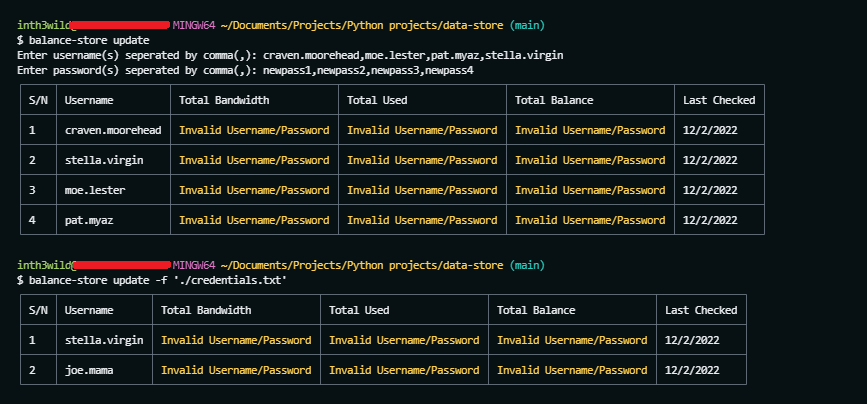
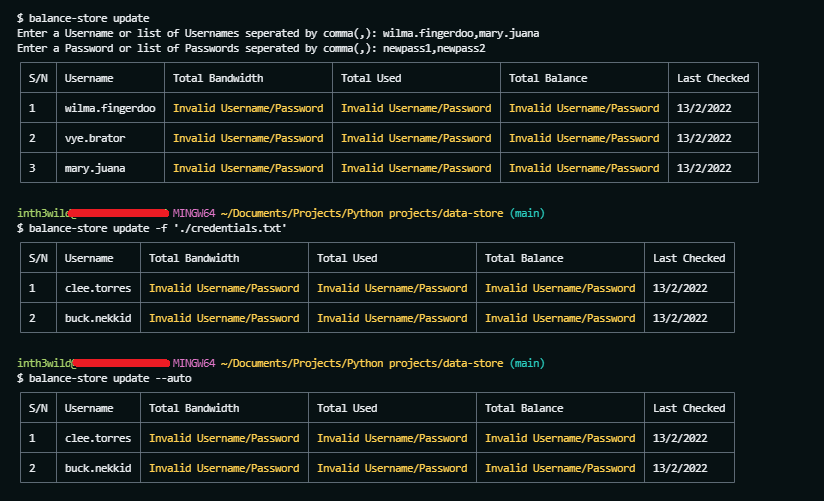
Added remove and auto update features

diff --git a/commands/update.js b/commands/update.js
@@ -7,6 +7,7 @@ const options = require('../index');
 const fs = require('fs');
 const readline = require('readline');
 const path = require('path')
+const {readfromDB} = require('../database/db');
 
 
 
@@ -47,12 +48,22 @@ function update(options) {
                 sendRequest(encryptedData, arr[0], {index: index + 1, length: allLinesArr.length}, displayTable);
             });
         })
-
-
+        
+        
     } 
+    else if(options.auto){
+        let dbData = readfromDB();
+        let index = 0;
+        let length = Object.entries(dbData).length;
+        for (let i in dbData) {
+            // console.log(i);
+            sendRequest(dbData[i].encryptedData, i, {index: index + 1, length: length}, displayTable);
+            index++;
+        }    
+    }
     else {
-        let userNames = prompt('Enter username(s) seperated by comma(,): ').split(',');
-        let passwords = prompt('Enter password(s) seperated by comma(,): ').split(',');
+        let userNames = prompt('Enter a Username or list of Usernames seperated by comma(,): ').split(',');
+        let passwords = prompt('Enter a Password or list of Passwords seperated by comma(,): ').split(',');
 
         if (userNames.length == passwords.length) {
             userNames.forEach((username, index) => {

diff --git a/index.js b/index.js
@@ -3,6 +3,7 @@ const { program } = require('commander')
 const save = require('./commands/save')
 const display = require('./commands/display');
 const update = require('./commands/update');
+const remove = require('./commands/remove');
 
 
 
@@ -29,6 +30,7 @@ program
     .command('update')
     .description('Update data balances in the database')
     .option('-f, --file <file path>', 'Path to file that has the usernames and passwords eg: \'C:\Users\me\Documents\credentials.txt\' ')
+    .option('--auto', 'Automatically update the data balances in the database WITHOUT asking for passwords')
     .action(update)
 
     
@@ -39,6 +41,12 @@ program
     .option('--empty', 'Display ONLY usernames that DON\'T have data')
     .option('--invalid', 'Display ONLY usernames that are INVALID')
     .action(display)
+
+
+program
+    .command('remove')
+    .description('Remove a username or set of usernames from the database')
+    .action(remove)
     
 
 program.parse(process.argv);

diff --git a/database/db.js b/database/db.js
@@ -2,7 +2,7 @@ const JSONdb = require('simple-json-db');
 const db = new JSONdb('database.json');
 
 
-function saveToDB(username, dataDigits) {
+function saveToDB(username, dataDigits, encryptedData) {
     // Format current date in dd/mm/yy format
     let today = new Date();
     let dd = today.getDate();
@@ -13,8 +13,11 @@ function saveToDB(username, dataDigits) {
 
     db.set(username, {
         'dataDigits': dataDigits,
-        'lastChecked': todaysDate
+        'lastChecked': todaysDate,
+        'encryptedData': encryptedData
     })
+
+    return
 }
 
 
@@ -24,8 +27,16 @@ function readfromDB(params) {
 }
 
 
+function removefromDB(username) {
+    db.delete(username);
+
+    return
+}
+
+
 
 module.exports = {
     saveToDB,
-    readfromDB
+    readfromDB,
+    removefromDB
 }

diff --git a/modules/useRegex.js b/modules/useRegex.js
@@ -1,18 +1,18 @@
 const {saveToDB} = require('../database/db');
 
 
-function useRegex(responseData, username) {
+function useRegex(responseData, username, encryptedData) {
 
     if (responseData.includes('Invalid Username/Password')) {
         let dataDigits = 'Invalid Username/Password'
         
         // Save response to database
-        saveToDB(username, dataDigits)
+        saveToDB(username, dataDigits, encryptedData)
     } else {
         let dataDigits = responseData.match(/-?[0-9]{1,3}\.[0-9]{1,3} [A-Za-z]*/g);
       
         // Save response to database
-        saveToDB(username, dataDigits)
+        saveToDB(username, dataDigits, encryptedData)
     }
 
 }

diff --git a/commands/save.js b/commands/save.js
@@ -48,8 +48,8 @@ function save(options) {
     
     } 
     else {
-        let userNames = prompt('Enter username(s) seperated by comma(,): ').split(',');
-        let passwords = prompt('Enter password(s) seperated by comma(,): ').split(',');
+        let userNames = prompt('Enter a Username or list of Usernames seperated by comma(,): ').split(',');
+        let passwords = prompt('Enter a Password or list of Passwords seperated by comma(,): ').split(',');
 
         if (userNames.length == passwords.length) {
             userNames.forEach((username, index) => {

diff --git a/commands/remove.js b/commands/remove.js
@@ -1,0 +1,19 @@
+const prompt = require('prompt-sync')();
+const chalk = require('chalk')
+const { displayTable } = require('../modules/displayTable');
+const {removefromDB} = require('../database/db');
+
+
+
+function remove() {
+    let userNames = prompt('Enter a Username or list of Usernames seperated by comma(,): ').split(',');
+
+    userNames.forEach((username, index) => {
+        removefromDB(username);
+    }); 
+    console.log('\nFinished removing.');
+
+    displayTable();
+}
+
+module.exports = remove;

diff --git a/modules/sendRequests.js b/modules/sendRequests.js
@@ -15,11 +15,11 @@ function sendRequest(encryptedData, username, paramObj, callback) {
     .then((response) => {
 
         // Use reqular expressions to get username and data balance from response
-        useRegex(response.data, username);
+        useRegex(response.data, username, encryptedData);
 
         if(paramObj.index == paramObj.length) {
             // Call the callback function which is displayTable
-            callback()
+            callback();
         }   
 
         
